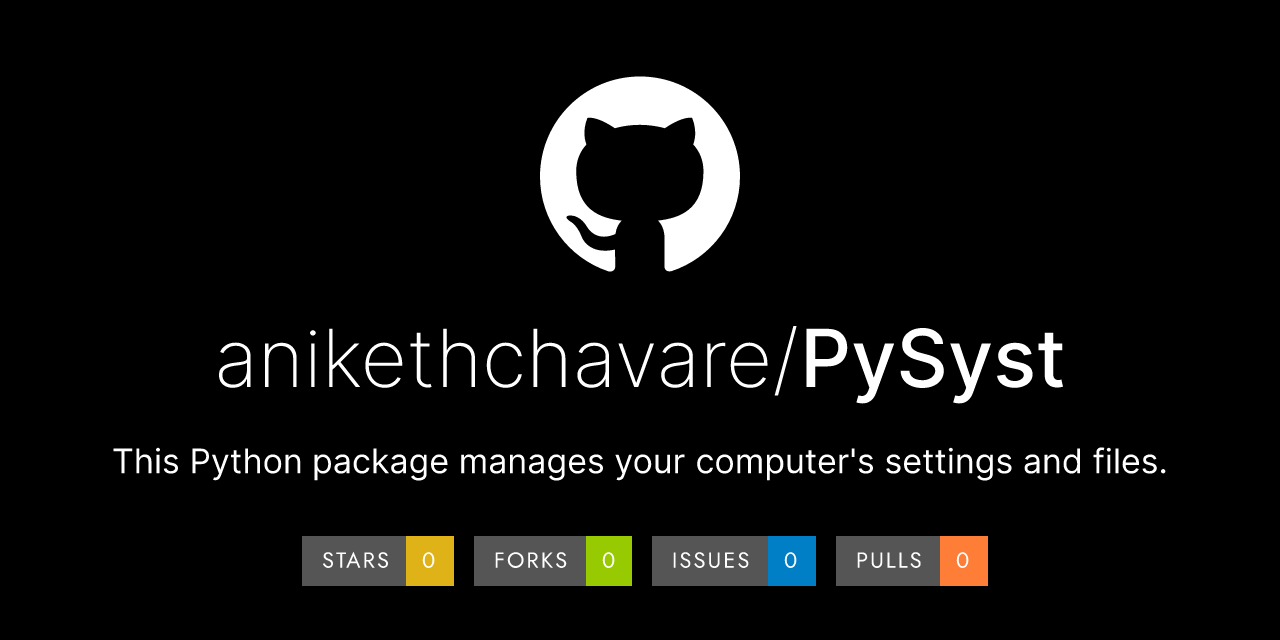
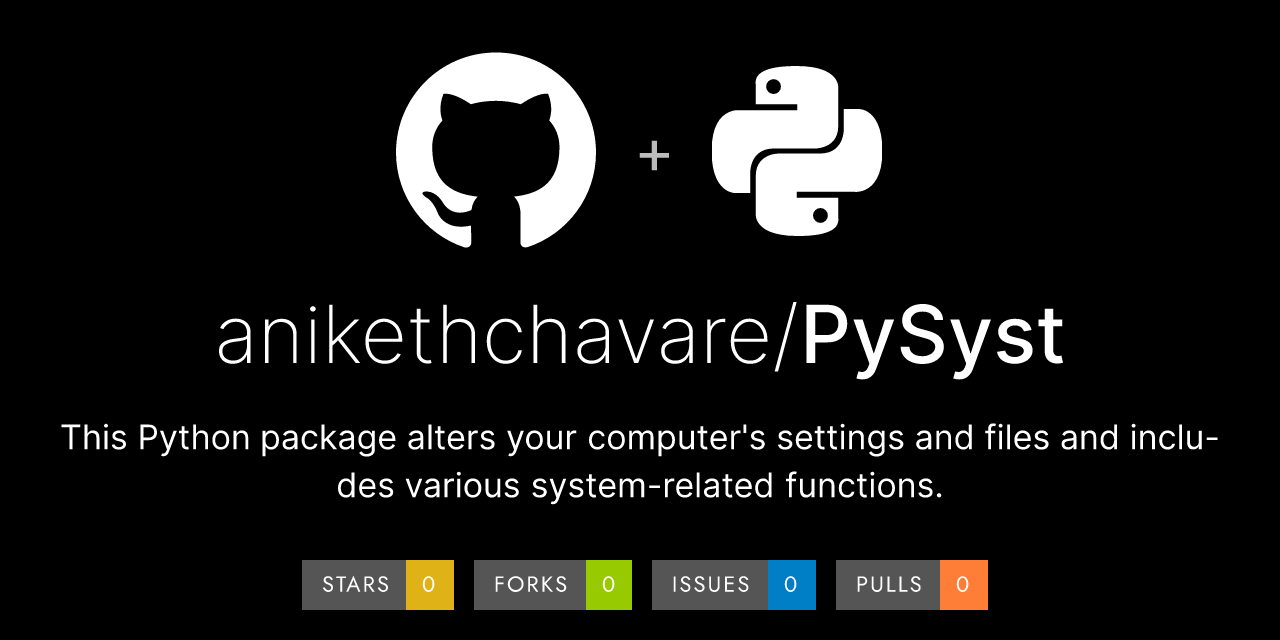
Commit 3 - v1.1.1

diff --git a/setup.py b/setup.py
@@ -28,8 +28,8 @@ with open("README.md") as readme_file:
 # Setup Arguments
 setup_args = dict (
     name = "PySyst",
-    version = "1.1.0",
-    description = "This Python package manages your computer's settings and files.",
+    version = "1.1.1",
+    description = "This Python package alters your computer's settings and files and includes various system-related functions.",
     long_description = README,
     long_description_content_type = "text/markdown",
     license = "Apache License 2.0",
@@ -51,7 +51,9 @@ setup_args = dict (
         "Development Status :: 5 - Production/Stable",
         "License :: OSI Approved :: Apache Software License",
         "Natural Language :: English",
-        "Operating System :: OS Independent",
+        "Operating System :: Microsoft :: Windows",
+        "Operating System :: MacOS",
+        "Operating System :: POSIX :: Linux",
         "Programming Language :: Python",
         "Programming Language :: Python :: 2",
         "Programming Language :: Python :: 3",

diff --git a/PySyst/__init__.py b/PySyst/__init__.py
@@ -30,8 +30,8 @@ from colorama import Fore, Style
 
 # Variables - Package Information
 __name__ = "PySyst"
-__version__ = "1.1.0"
-__description__ = "This Python package manages your computer's settings and files."
+__version__ = "1.1.1"
+__description__ = "This Python package alters your computer's settings and files and includes various system-related functions."
 __license__ = "Apache License 2.0"
 __author__ = "Aniketh Chavare"
 __author_email__ = "anikethchavare@outlook.com"

diff --git a/README.md b/README.md
@@ -1,16 +1,16 @@
 <h1 align="center">This is PySyst.</h1>
 
-<p align="center"><img src="https://github.com/anikethchavare/PySyst/assets/50455489/b67e60f0-334d-4d46-a397-f36e6afabfb6" width="600" height="300"></p>
+<p align="center"><img src="https://github.com/anikethchavare/PySyst/assets/50455489/30d9428d-0805-481c-9fcd-98cadaa9d9bd" width="600" height="300"></p>
 
-<p align="center">This Python package manages your computer's settings and files. Scroll down to learn more.</p>
+<p align="center">This Python package alters your computer's settings and files and includes various system-related functions. Scroll down to learn more.</p>
 
 <p align="center">Get started with PySyst right away! Read the docs <a href="https://anikethchavare.gitbook.io/pysyst">here</a>.</p>
 
 ## Package Information
 
 1. **Name**: PySyst</br>
-2. **Version**: 1.1.0</br>
-3. **Description**: This Python package manages your computer's settings and files.</br>
+2. **Version**: 1.1.1</br>
+3. **Description**: This Python package alters your computer's settings and files and includes various system-related functions.</br>
 4. **License**: Apache License 2.0</br>
 5. **Author**: Aniketh Chavare ([GitHub Profile](https://github.com/anikethchavare))</br>
 6. **Author E-Mail**: anikethchavare@outlook.com</br>

diff --git a/CHANGELOG.md b/CHANGELOG.md
@@ -4,6 +4,10 @@ This is the changelog file of PySyst.
 
 **Note:** All the dates below are in the IST time format.
 
+## <i>Version - 1.1.1 (9/10/2023)</i>
+
+1. Edited the package's social preview, description, and classifiers.
+
 ## <i>Version - 1.1.0 (9/10/2023)</i>
 
 1. Created the following modules: Clipboard, Volume, and Brightness
